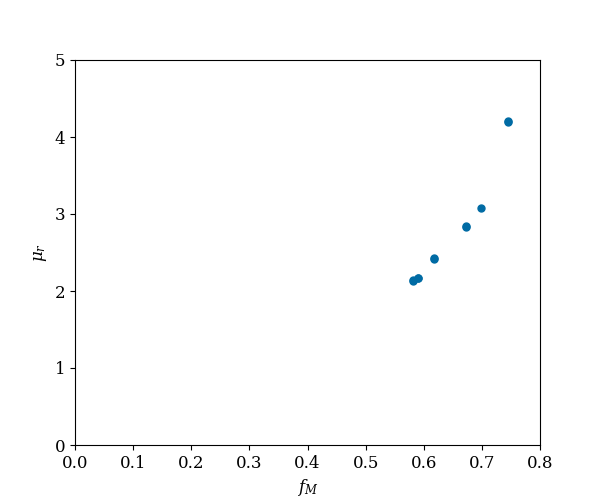
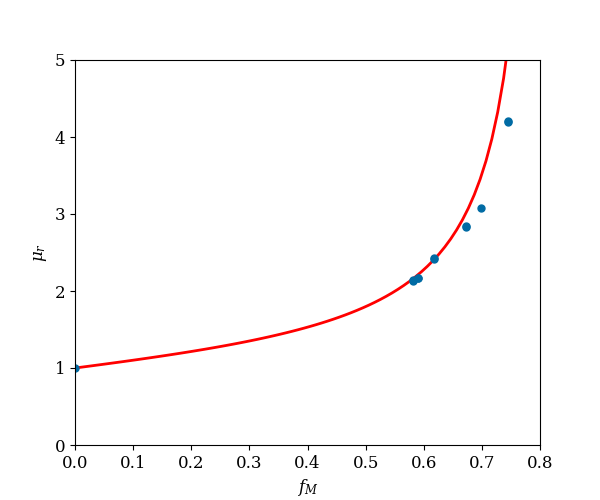
Update plots

diff --git a/pycloak/ferromagnet_pub17/plot_permeability_vs_fm.py b/pycloak/ferromagnet_pub17/plot_permeability_vs_fm.py
@@ -35,31 +35,46 @@ fig, axs = plt.subplots(1,1,figsize=(6,5))
 plt.xlabel("$f_M$")
 plt.ylabel("$\mu_{r}$")
 
-a_mu = []
-a_mu_sdev = []
-a_fm = []
+a_mu = [1]
+a_mu_sdev = [0]
+a_fm = [0]
 
 
-for id_i in ["fm581a", "fm581b", "fm590a", "fm590b", "fm618a", "fm618b", "fm673a", "fm673b", "fm699b", "fm745a", "fm745b" ]:
+for id_i in ["fm104a", "fm104b",  "fm581a", "fm581b", "fm590a", "fm590b", "fm618a", "fm618b", "fm673a", "fm673b", "fm699b", "fm745a", "fm745b" ]:
 
 
     #    f = interp1d(calibration[:,1], calibration[:,2])
     interpol = PchipInterpolator(data.loc[data['ID']==id_i,'Bout'].values, data.loc[data['ID']==id_i,'mu'].values, extrapolate = False)
 
-    a_mu.append( interpol(Bref) )
-    a_mu_sdev.append( data.loc[data['ID']==id_i,'mu_err'].values[-1] )
-    a_fm.append( data.loc[data['ID']==id_i,'frac'].values[0] )
+    a_mu_interpol = interpol(Bref)
+
+    if not ( np.isnan(a_mu_interpol) ):
+        a_mu.append( a_mu_interpol )
+        a_mu_sdev.append( data.loc[data['ID']==id_i,'mu_err'].values[-1] )
+        a_fm.append( data.loc[data['ID']==id_i,'frac'].values[0] )
+
+# convert lists to numpy arrays
+a_mu = np.array(a_mu)
+a_mu_sdev = np.array(a_mu_sdev)
+a_fm = np.array(a_fm)
 
 # do plot
 print(a_fm)
-axs.errorbar( a_fm, a_mu, a_mu_sdev, linestyle='', marker='o', color=mcol[0])
+axs.errorbar( a_fm, a_mu, yerr=a_mu_sdev, linestyle='', marker='o', color=mcol[0])
 axs.set_xlim((0,0.8))
 axs.set_ylim((0,5))
 
 
-# Fit function to data
-# ... TODO
+# Do fitting
+fitfunc = lambda p, x: p[0]/np.tan(p[1]*x+p[2]) + p[3] # Target function
+errfunc = lambda p, x, y: fitfunc(p, x) - y # Distance to the target function
 
+p0 = [0.545, -1.78, 1.454, 0.93577] # Initial guess for the parameters
+#p1, success = optimize.leastsq(errfunc, p0[:], args=(a_fm, a_mu))
+p1=p0
+
+time = np.linspace(0, 1, 100)
+plt.plot(time, fitfunc(p1, time), "r-") # Plot of the data and the fit
 
 # save & show plot
 plt.savefig("plots/eps/permeability_vs_fm_sbu.eps")
